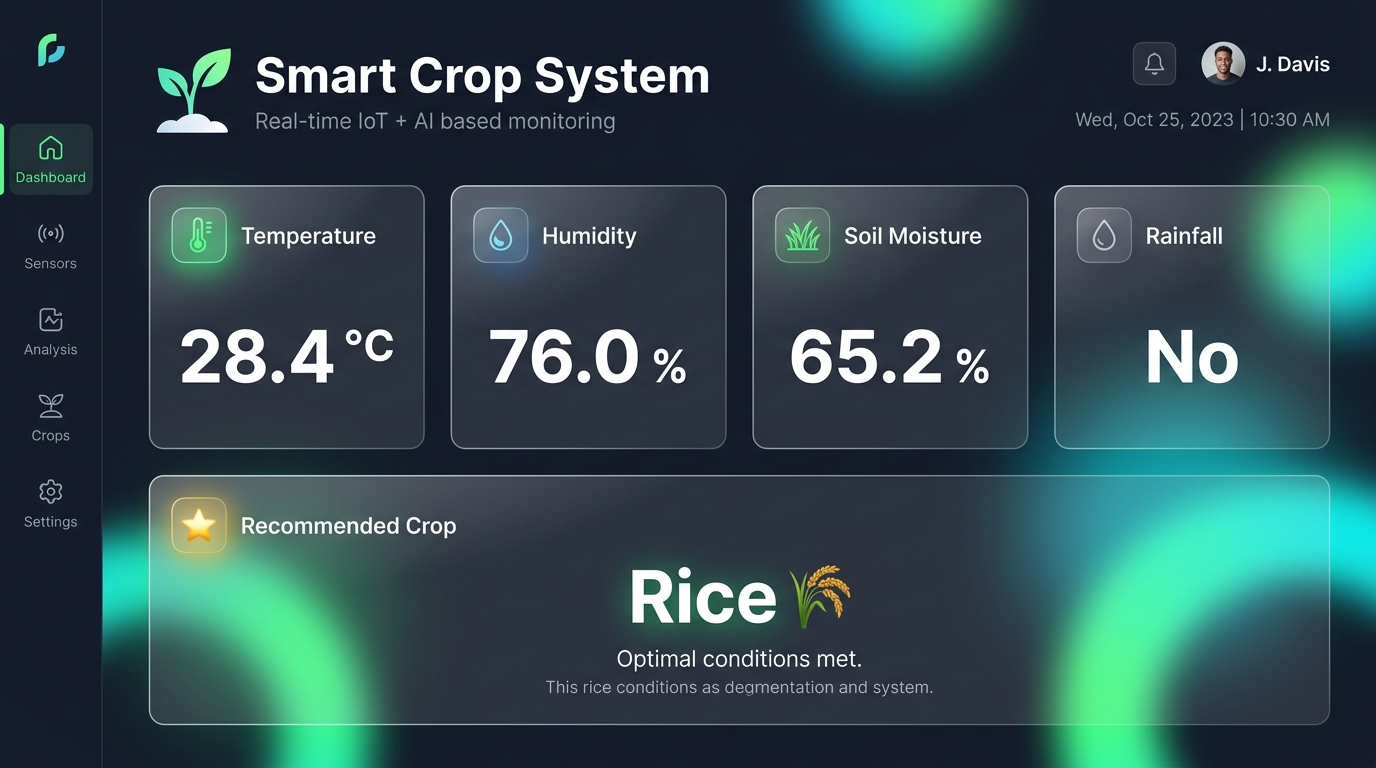
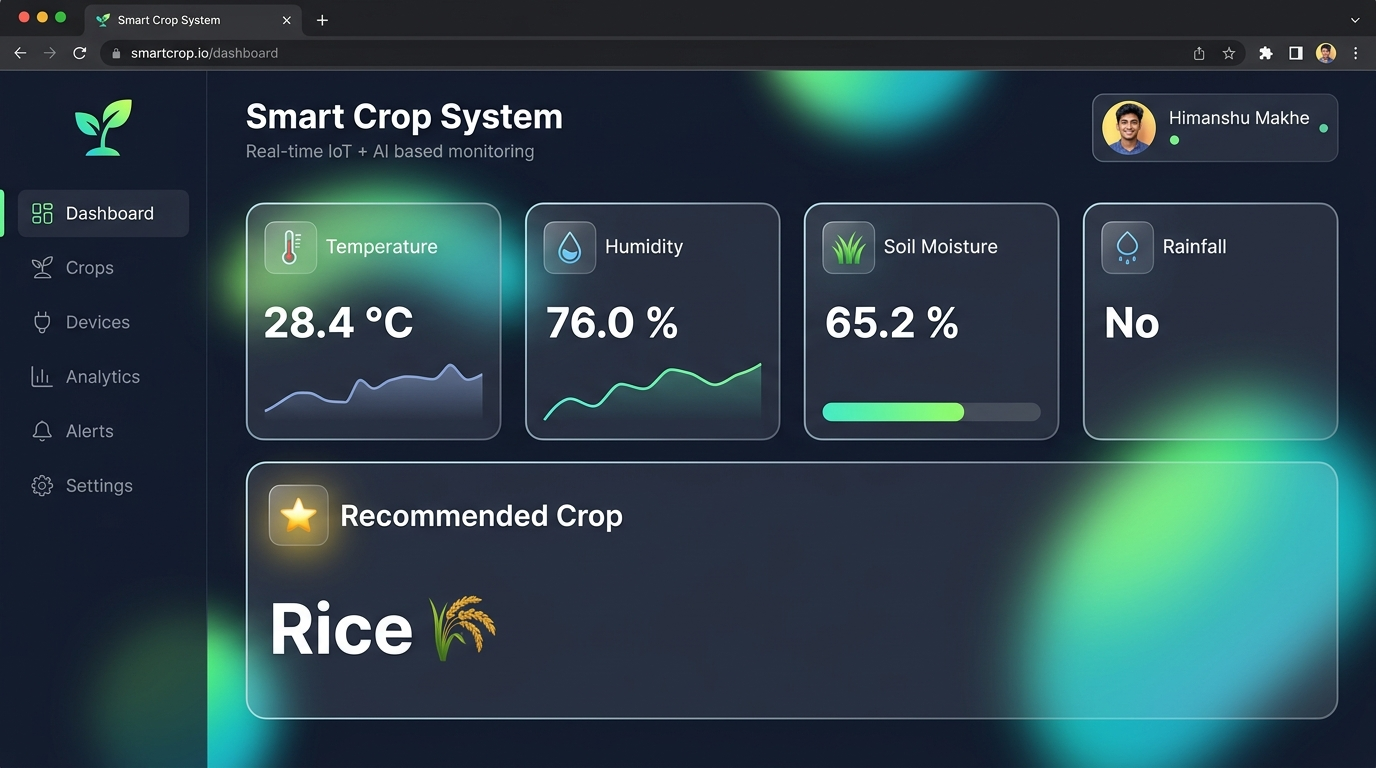
docs: replace images featuring Himanshu Makhe in lab and Indian farm field testing

diff --git a/README.md b/README.md
@@ -19,10 +19,17 @@ The web client features real-time data polling, status animations, and dynamic c
 
 ---
 
-### 🛠 Hardware Prototype Setup
-The sensor node prototype built with an ESP8266 NodeMCU development board, DHT sensor, capacitive soil moisture probe, and rain detection module:
+### 🛠 Hardware Prototype & Lab Testing
+The sensor node prototype built with an ESP8266 NodeMCU development board, DHT sensor, capacitive soil moisture probe, and rain detection module being tested in the electronics lab:
 
 ![IoT Hardware Prototype Setup](assets/hardware_setup.png)
+
+---
+
+### 🌾 Field Deployment & Farm Testing
+On-site agricultural testing of the portable IoT crop telemetry node deployed in a paddy farm:
+
+![Agricultural Field Deployment](assets/field_testing.png)
 
 ---
 
@@ -145,7 +152,8 @@ No build steps or complex dependencies required!
 crop-recommendation-system/
 ├── assets/
 │   ├── dashboard_preview.png    # Live web UI preview screenshot
-│   ├── hardware_setup.png       # Real IoT hardware prototype photo
+│   ├── hardware_setup.png       # Real IoT hardware prototype & lab photo
+│   ├── field_testing.png        # Agricultural field deployment photo
 │   └── system_architecture.png  # End-to-end data flow and architecture
 ├── sketch_mar23a/
 │   ├── main.kcl                 # Modeling & configuration settings
